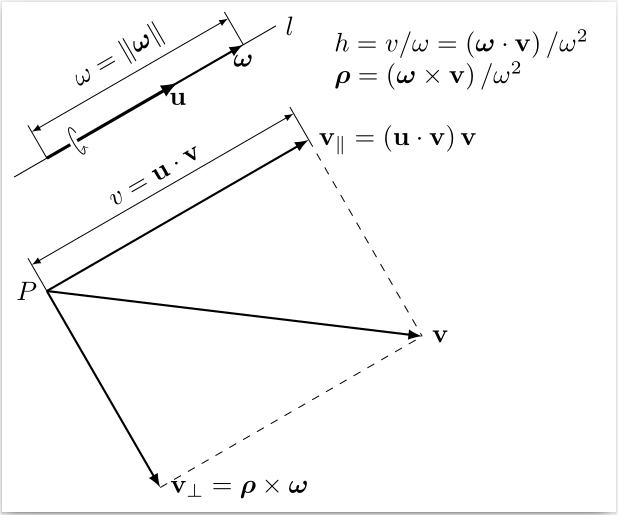
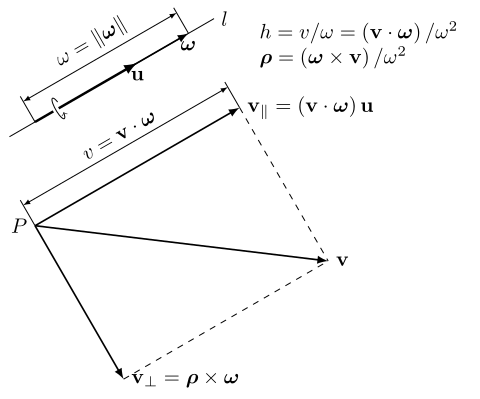
修改计算向量公式的错误。

diff --git a/Lie/notes/01/twist-07.tex b/Lie/notes/01/twist-07.tex
@@ -23,14 +23,14 @@
 
 \begin{scope} [rotate=30]
 
-\draw[thick,->,>=latex] ( 0.0,0.0) -- (4.0, 0.0) node [right] {$\mathbf{v}_\parallel = \left(\mathbf{u} \cdot \mathbf{v}\right)\mathbf{v}$};
+\draw[thick,->,>=latex] ( 0.0,0.0) -- (4.0, 0.0) node [right] {$\mathbf{v}_\parallel = \left(\mathbf{v} \cdot \boldsymbol{\omega}\right)\mathbf{u}$};
 \draw[thick,->,>=latex] ( 0.0,0.0) -- (0.0,-3.0) node [right] {$\mathbf{v}_\perp=\boldsymbol{\rho} \times \boldsymbol{\omega}$};
 \draw[thick,->,>=latex] ( 0.0,0.0) node [left] {$P$} -- (4.0,-3.0) node [right] {$\mathbf{v}$};
 %\draw[very thick,->,>=latex] ( 0.0,0.0) -- (2.0,0.0) node [below] {$\mathbf{u}$};
 
 \draw[very thin] (0.0, 0.0) -- (0.0,0.5) ;
 \draw[very thin] (4.0, 0.0) -- (4.0,0.5) ;
-\draw[very thin,<->,>=latex] (0.0, 0.4) -- node [above, rotate=30] {$v=\mathbf{u} \cdot \mathbf{v}$} (4.0,0.4) ;
+\draw[very thin,<->,>=latex] (0.0, 0.4) -- node [above, rotate=30] {$v=\mathbf{v} \cdot \boldsymbol{\omega}$} (4.0,0.4) ;
 
 \draw[very thin,dashed] (4.0, 0.0) -- (4.0,-3.0) ;
 \draw[very thin,dashed] (0.0,-3.0) -- (4.0,-3.0) ;
@@ -38,7 +38,7 @@
 \end{scope}
 
 \node[above right] at (3.5, 2.5) {$\begin{array}{l}
-h=v/\omega=\left(\boldsymbol{\omega}\cdot\mathbf{v}\right)/\omega^{2}\\
+h=v/\omega=\left(\mathbf{v} \cdot \boldsymbol{\omega}\right)/\omega^{2}\\
 \boldsymbol{\rho}=\left(\boldsymbol{\omega}\times\mathbf{v}\right)/\omega^{2}
 \end{array}$};
 
